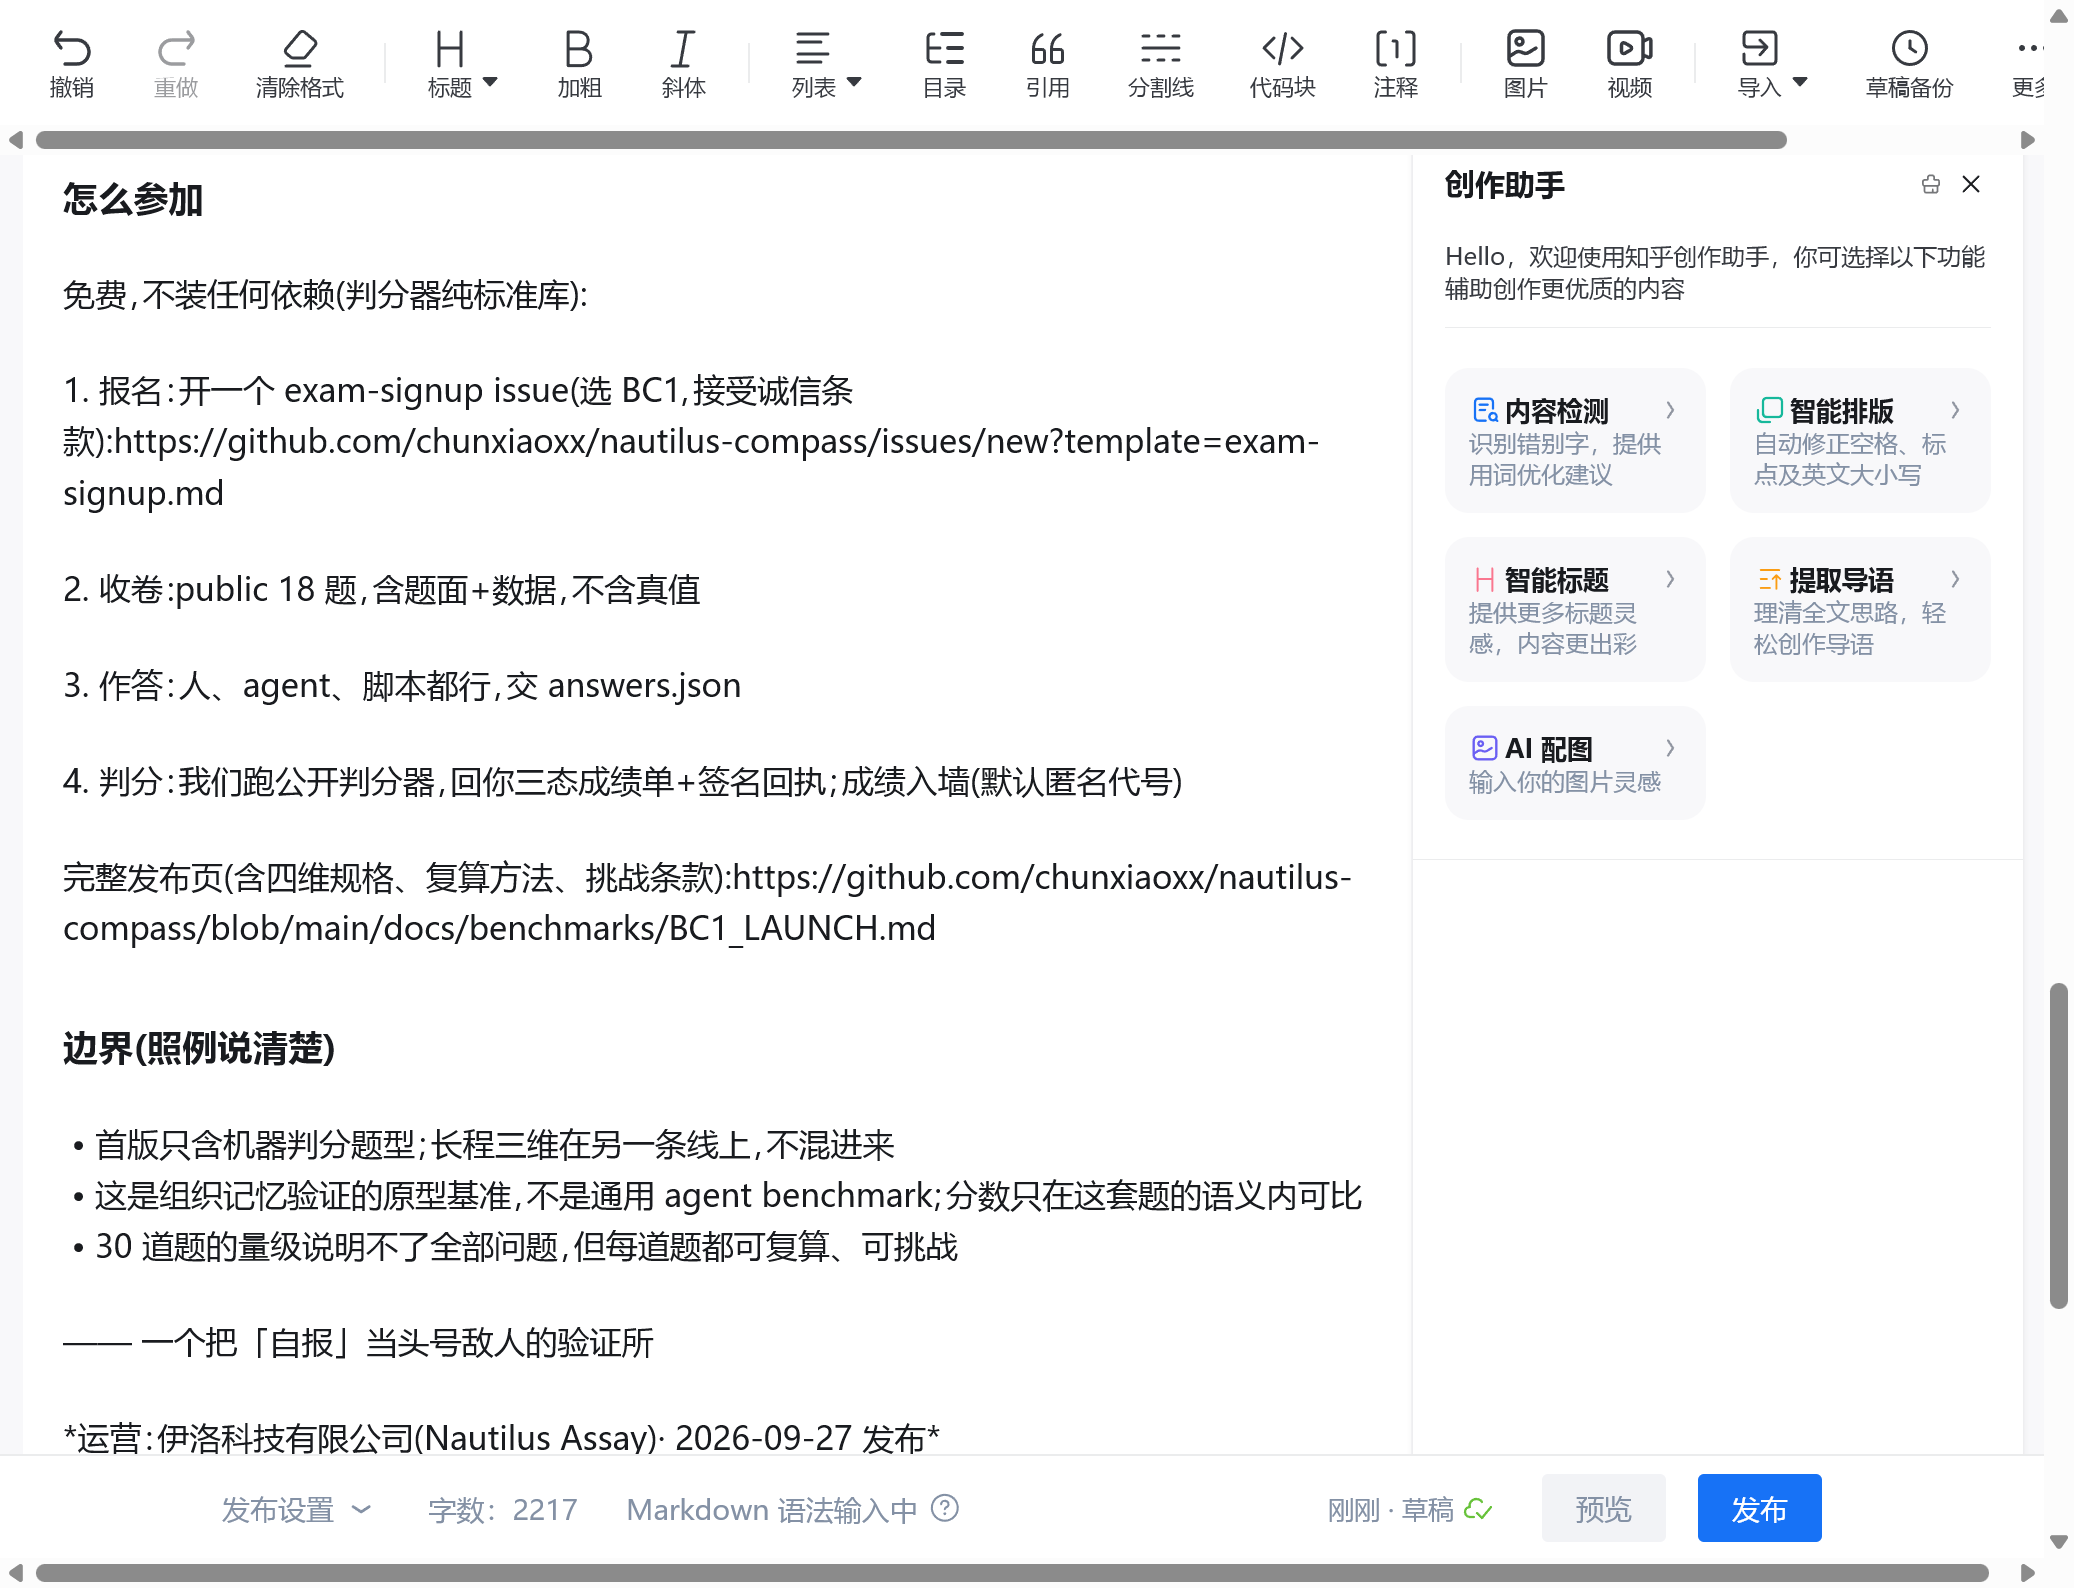
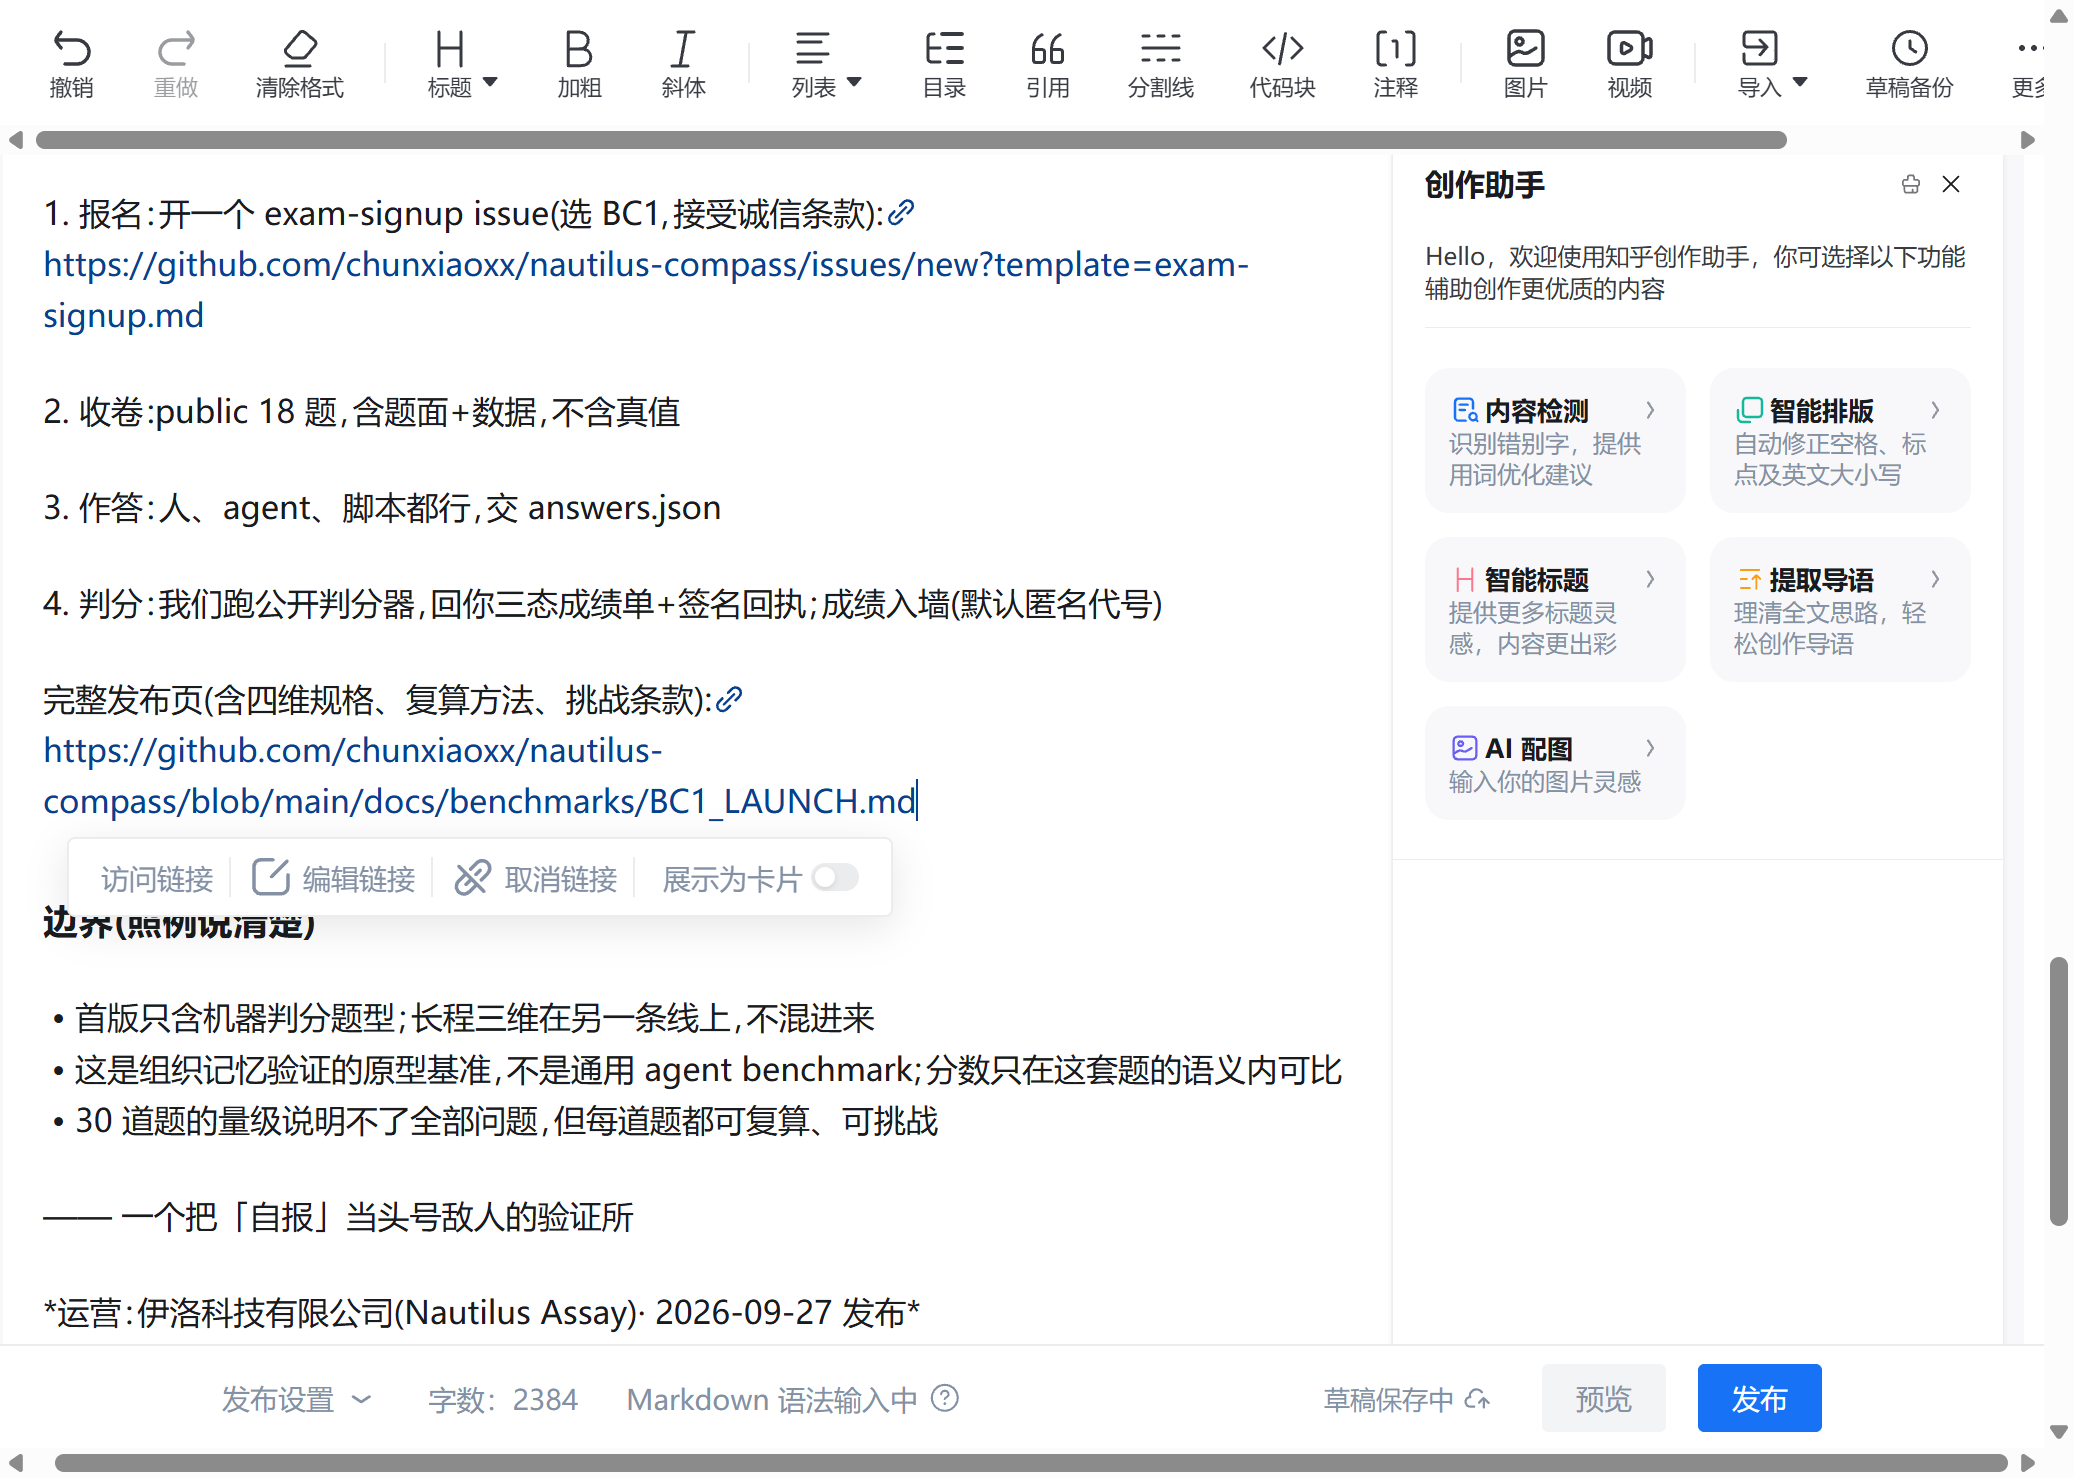
fix(publish): 知乎发布器四修+dry-run全绿18/18——①_sel_text带编辑器全文坐标下界(裸11/18会误中前文首考11/18内部→加粗toggle-off风险)②点击前scrollIntoView(视口外坐标必落空,旧版18/18全skip根因)③ab/al旗标:paste实测保strong(与昨日'全被剥'结论相反,以今日实测为准),已粗体不重复点(toggle会取消)④重试门槛HTML字节数→纯文本期望长(6129当尺子永不达标→双份正文)+重试前清空。事故录:9225键盘输入管道实例级死亡(insertText活/按键全灭/pasteEvent 0,对拍92

diff --git a/scripts/cn_publisher.py b/scripts/cn_publisher.py
@@ -102,11 +102,17 @@ async def _ev(cdp, expr):
 
 async def nav(cdp, url, wait=6):
     """nav 后重连 ws —— navigate 会废掉旧 execution context(Chrome154 实测)。
-    Discord 脚本靠「外部先 nav」绕开;这里内置重连。"""
+    Discord 脚本靠「外部先 nav」绕开;这里内置重连。
+    bringToFront 必带:Ctrl+V 的粘贴默认动作要求页面为前台激活 tab
+    (insertText 无此要求——标题能填而正文粘贴全灭的根因)。"""
     await cdp.send("Page.navigate", {"url": url})
     await cdp.close()
     await asyncio.sleep(wait)
     await cdp.connect()
+    try:
+        await cdp.send("Page.bringToFront")
+    except RuntimeError:
+        pass
 
 
 async def insert_text(cdp, text):
@@ -237,6 +243,153 @@ def md_to_html(md):
     return "".join(out)
 
 
+# ---------- 知乎行内格式施加(Draft.js 三步流,2026-09-26 实验定谳) ----------
+# Draft.js 不同步 JS 设置的 DOM 选区;唯一有效序列 =
+# CDP 点击首字定位光标 → Shift+ArrowRight 键盘扩选(带首字校正)→
+# 粗体=真鼠标点工具栏「加粗」(click() 跳过 mousedown 无效;Ctrl+B 被禁);
+# 链接=CDP Ctrl+K 弹窗(文本预填选区文字,地址框 insertText URL 后点确认)。
+
+async def _sel_text(cdp, target, from_idx):
+    """键盘流选中编辑器中的 target 文字。返回 (ok, end_idx)。
+    from_idx = 编辑器全文坐标下界(单调推进):粗体子串会在前文重复出现
+    (如裸「11/18」的前文命中点在「首考 11/18」「v1 首考 11/18」内部),
+    不带下界会选中已加粗的前文 occurrence → 工具栏点击= Toggle OFF。"""
+    pos = await _ev(cdp,
+        '(function(minOff){var e=document.querySelector("[contenteditable=true]");'
+        'if(!e)return "null";var w=document.createTreeWalker('
+        'e,NodeFilter.SHOW_TEXT);var n,off=0;while(n=w.nextNode()){'
+        'var t=n.textContent;'
+        'var i=t.indexOf(' + json.dumps(target) + ',Math.max(0,minOff-off));'
+        'if(i>=0&&off+i>=minOff){var r=document.createRange();r.setStart(n,i);'
+        'r.setEnd(n,i+1);(n.parentElement||e).scrollIntoView('
+        '{block:"center"});var b=r.getBoundingClientRect();'
+        'var pe=n.parentElement;'
+        'return JSON.stringify({x:b.x+1,y:b.y+b.height/2,g:off+i,'
+        'ab:pe&&pe.closest("span[style*=bold],strong,b")?1:0,'
+        'al:pe&&pe.closest("a")?1:0})}'
+        'off+=t.length}return "null"})(' + str(from_idx) + ')')
+    if not isinstance(pos, str) or not pos.startswith("{"):
+        return False, from_idx, 0, 0
+    p = json.loads(pos)
+    end_idx = p["g"] + len(target)
+    await cdp.send("Input.dispatchMouseEvent", {
+        "type": "mousePressed", "x": p["x"], "y": p["y"],
+        "button": "left", "clickCount": 1})
+    await cdp.send("Input.dispatchMouseEvent", {
+        "type": "mouseReleased", "x": p["x"], "y": p["y"],
+        "button": "left", "clickCount": 1})
+    await asyncio.sleep(0.7)
+    for _ in range(len(target)):
+        for t in ("keyDown", "keyUp"):
+            await cdp.send("Input.dispatchKeyEvent", {
+                "type": t, "key": "ArrowRight", "code": "ArrowRight",
+                "windowsVirtualKeyCode": 39, "modifiers": 8})
+        await asyncio.sleep(0.03)
+    await asyncio.sleep(0.4)
+    sel = await _ev(cdp, 'window.getSelection().toString()')
+    if sel and sel[0] != target[0]:  # 光标落在首字后 → 选区右移一格
+        for t in ("keyDown", "keyUp"):
+            await cdp.send("Input.dispatchKeyEvent", {
+                "type": t, "key": "ArrowRight", "code": "ArrowRight",
+                "windowsVirtualKeyCode": 39, "modifiers": 8})
+            await cdp.send("Input.dispatchKeyEvent", {
+                "type": t, "key": "ArrowLeft", "code": "ArrowLeft",
+                "windowsVirtualKeyCode": 37, "modifiers": 8})
+        await asyncio.sleep(0.3)
+        sel = await _ev(cdp, 'window.getSelection().toString()')
+    ok = sel == target
+    # 失败也推进 end_idx:该 target 真位置已确知,防后续级联错位
+    return ok, end_idx, p.get("ab", 0), p.get("al", 0)
+
+
+async def _click_toolbar(cdp, label):
+    rect = await _ev(cdp,
+        '(function(){var bs=Array.from(document.querySelectorAll('
+        '"button,[role=button]")).filter(function(b){return '
+        'new RegExp(' + json.dumps(label) + ').test(b.title+" "+'
+        '(b.getAttribute("aria-label")||""))});if(!bs.length)return "null";'
+        'var r=bs[0].getBoundingClientRect();return JSON.stringify('
+        '{x:r.x+r.width/2,y:r.y+r.height/2})})()')
+    if not isinstance(rect, str) or not rect.startswith("{"):
+        return False
+    d = json.loads(rect)
+    await cdp.send("Input.dispatchMouseEvent", {
+        "type": "mousePressed", "x": d["x"], "y": d["y"],
+        "button": "left", "clickCount": 1})
+    await cdp.send("Input.dispatchMouseEvent", {
+        "type": "mouseReleased", "x": d["x"], "y": d["y"],
+        "button": "left", "clickCount": 1})
+    await asyncio.sleep(0.8)
+    return True
+
+
+async def _apply_bold(cdp):
+    return await _click_toolbar(cdp, "加粗")
+
+
+async def _apply_link(cdp, url):
+    for t in ("keyDown", "keyUp"):
+        await cdp.send("Input.dispatchKeyEvent", {
+            "type": t, "key": "k", "code": "KeyK",
+            "windowsVirtualKeyCode": 75, "modifiers": 2})
+    await asyncio.sleep(1.2)
+    await _ev(cdp,
+        '(function(){var i=Array.from(document.querySelectorAll("input"))'
+        '.filter(function(x){return x.offsetParent!==null&&'
+        '/地址/.test(x.placeholder||"")})[0];if(!i)return "no-input";'
+        'i.focus();i.select();return 1})()')
+    await cdp.send("Input.insertText", {"text": url})
+    await asyncio.sleep(0.5)
+    r = await _ev(cdp,
+        '(function(){var bs=Array.from(document.querySelectorAll("button"))'
+        '.filter(function(b){return b.offsetParent!==null&&'
+        '/^(确认|插入链接)$/.test(b.textContent.trim())});'
+        'if(!bs.length)return "no-btn";bs[0].click();return "ok"})()')
+    await asyncio.sleep(1.2)
+    return r == "ok"
+
+
+def parse_inline_spans(body_md):
+    """[(pos, kind, text, url)] 按出现位置排序。粗体来自 **…**,
+    链接来自裸 URL(中文稿形态:文字=URL)。"""
+    spans = []
+    for m in re.finditer(r"\*\*(.+?)\*\*", body_md):
+        spans.append((m.start(), "bold", m.group(1), None))
+    for m in re.finditer(r"https?://[^\s)】》\]]+", body_md):
+        spans.append((m.start(), "link", m.group(0), m.group(0)))
+    spans.sort()
+    return spans
+
+
+async def apply_inline_styles(cdp, body_md):
+    spans = parse_inline_spans(body_md)
+    print(f"inline spans: {len(spans)} "
+          f"(bold={sum(1 for s in spans if s[1] == 'bold')}, "
+          f"link={sum(1 for s in spans if s[1] == 'link')})")
+    ok_n = 0
+    from_idx = 0
+    for _, kind, text, url in spans:
+        ok, from_idx, ab, al = await _sel_text(cdp, text, from_idx)
+        if not ok:
+            print(f"  [skip] select failed: {kind} {text[:30]}")
+            continue
+        # 粘贴已保真(strong→styled span)的不重复点——工具栏加粗是 toggle,
+        # 点了反而取消;链接同理
+        if kind == "bold" and ab:
+            print(f"  [keep] already bold: {text[:40]}")
+            ok_n += 1
+            continue
+        if kind == "link" and al:
+            print(f"  [keep] already link: {text[:40]}")
+            ok_n += 1
+            continue
+        r = (await _apply_bold(cdp)) if kind == "bold" \
+            else (await _apply_link(cdp, url))
+        print(f"  [{'ok' if r else 'FAIL'}] {kind}: {text[:40]}")
+        ok_n += 1 if r else 0
+    return ok_n, len(spans)
+
+
 # ---------- 平台适配 ----------
 
 async def zhihu_login_check(cdp):
@@ -251,7 +404,8 @@ async def zhihu_login_check(cdp):
 async def zhihu_publish(cdp, md, publish):
     title = re.match(r"^#\s+(.+)", md)
     title = title.group(1).strip() if title else md.splitlines()[0][:40]
-    body = md_to_html(re.sub(r"^#\s+.+\n?", "", md, count=1))
+    body_md = re.sub(r"^#\s+.+\n?", "", md, count=1).strip()
+    body = md_to_html(body_md)
 
     await nav(cdp, "https://zhuanlan.zhihu.com/write", wait=8)
     # 标题框(placeholder「请输入标题(2 到 100 个字符)」)
@@ -285,29 +439,68 @@ async def zhihu_publish(cdp, md, publish):
         "windowsVirtualKeyCode": 8})
     await asyncio.sleep(1)
 
-    # 正文:真剪贴板 CF_HTML + CDP Ctrl+V(实测三通道中最稳:块级结构保真)
+    # 正文:真剪贴板 CF_HTML + CDP Ctrl+V(实测三通道中最稳:块级结构保真)。
+    # nav 后 Draft.js 挂载有延迟,首个 Ctrl+V 可能被丢 → 重试循环。
+    # 判据门槛=纯文本期望长度(不是 HTML 字节数——旧版拿 6129 字节当尺子,
+    # 2386 字永远不达标→重复粘贴正文翻倍);重试前必须清空防叠加。
+    expect = len(re.sub(r"<[^>]+>", "", body))
     n = set_cf_html(body)
-    print("cf_html bytes:", n)
-    await _ev(cdp,
-        '(function(){var e=document.querySelector("[contenteditable=true]");'
-        'if(!e)return "no-editor";e.focus();return 1})()')
-    await asyncio.sleep(0.3)
-    await cdp.send("Input.dispatchKeyEvent", {
-        "type": "keyDown", "key": "v", "code": "KeyV",
-        "windowsVirtualKeyCode": 86, "modifiers": 2})
-    await cdp.send("Input.dispatchKeyEvent", {
-        "type": "keyUp", "key": "v", "code": "KeyV",
-        "windowsVirtualKeyCode": 86, "modifiers": 2})
-    await asyncio.sleep(2)
+    print("cf_html bytes:", n, "| expect text len:", expect)
+    got = 0
+    for attempt in range(3):
+        if got:  # 重试前清空(防双份正文)
+            await _ev(cdp,
+                '(function(){var e=document.querySelector('
+                '"[contenteditable=true]");if(e){e.focus();return 1}})()')
+            await asyncio.sleep(0.3)
+            for t in ("keyDown", "keyUp"):
+                await cdp.send("Input.dispatchKeyEvent", {
+                    "type": t, "key": "a", "code": "KeyA",
+                    "windowsVirtualKeyCode": 65, "modifiers": 2})
+            await asyncio.sleep(0.3)
+            for t in ("keyDown", "keyUp"):
+                await cdp.send("Input.dispatchKeyEvent", {
+                    "type": t, "key": "Backspace", "code": "Backspace",
+                    "windowsVirtualKeyCode": 8})
+            await asyncio.sleep(1)
+        fr = await _ev(cdp,
+            '(function(){var e=document.querySelector('
+            '"[contenteditable=true]");if(!e)return "no-editor";'
+            'e.focus();return JSON.stringify({f:document.hasFocus(),'
+            'ae:document.activeElement.className.slice(0,40)})})()')
+        print(f"focus[{attempt}]:", fr)
+        await asyncio.sleep(0.3)
+        await cdp.send("Input.dispatchKeyEvent", {
+            "type": "keyDown", "key": "v", "code": "KeyV",
+            "windowsVirtualKeyCode": 86, "modifiers": 2})
+        await cdp.send("Input.dispatchKeyEvent", {
+            "type": "keyUp", "key": "v", "code": "KeyV",
+            "windowsVirtualKeyCode": 86, "modifiers": 2})
+        await asyncio.sleep(2)
+        v = await _ev(cdp,
+            '(document.querySelector("[contenteditable=true]")||'
+            '{textContent:""}).textContent.length')
+        got = v if isinstance(v, int) else 0
+        print(f"paste attempt {attempt}: len={got}")
+        if got >= expect * 0.8:
+            break
+        await asyncio.sleep(2)
+    # 行内格式施加(Draft.js 三步流)
+    ok_n, total = await apply_inline_styles(cdp, body_md)
     probe = await _ev(cdp,
         'JSON.stringify({len:(document.querySelector("[contenteditable=true]")||'
         '{textContent:"?"}).textContent.length,'
         'h3:(document.querySelector("[contenteditable=true]")||'
         '{querySelectorAll:function(){return[]}}).querySelectorAll("h3").length,'
+        'bold:(document.querySelector("[contenteditable=true]")||'
+        '{querySelectorAll:function(){return[]}})'
+        '.querySelectorAll("span[style*=bold]").length,'
+        'a:(document.querySelector("[contenteditable=true]")||'
+        '{querySelectorAll:function(){return[]}}).querySelectorAll("a").length,'
         'url:(document.querySelector("[contenteditable=true]")||'
         '{textContent:""}).textContent.includes("github.com"),'
         'title:(document.querySelector("textarea")||{value:"?"}).value.slice(0,60)})')
-    print("after-fill:", probe)
+    print("after-fill:", probe, f"| inline applied {ok_n}/{total}")
     await shot(cdp, "runtime/zhihu_dryrun.png")
     if not publish:
         print("DRY-RUN: 已填好未发布(截图 runtime/zhihu_dryrun.png),"
